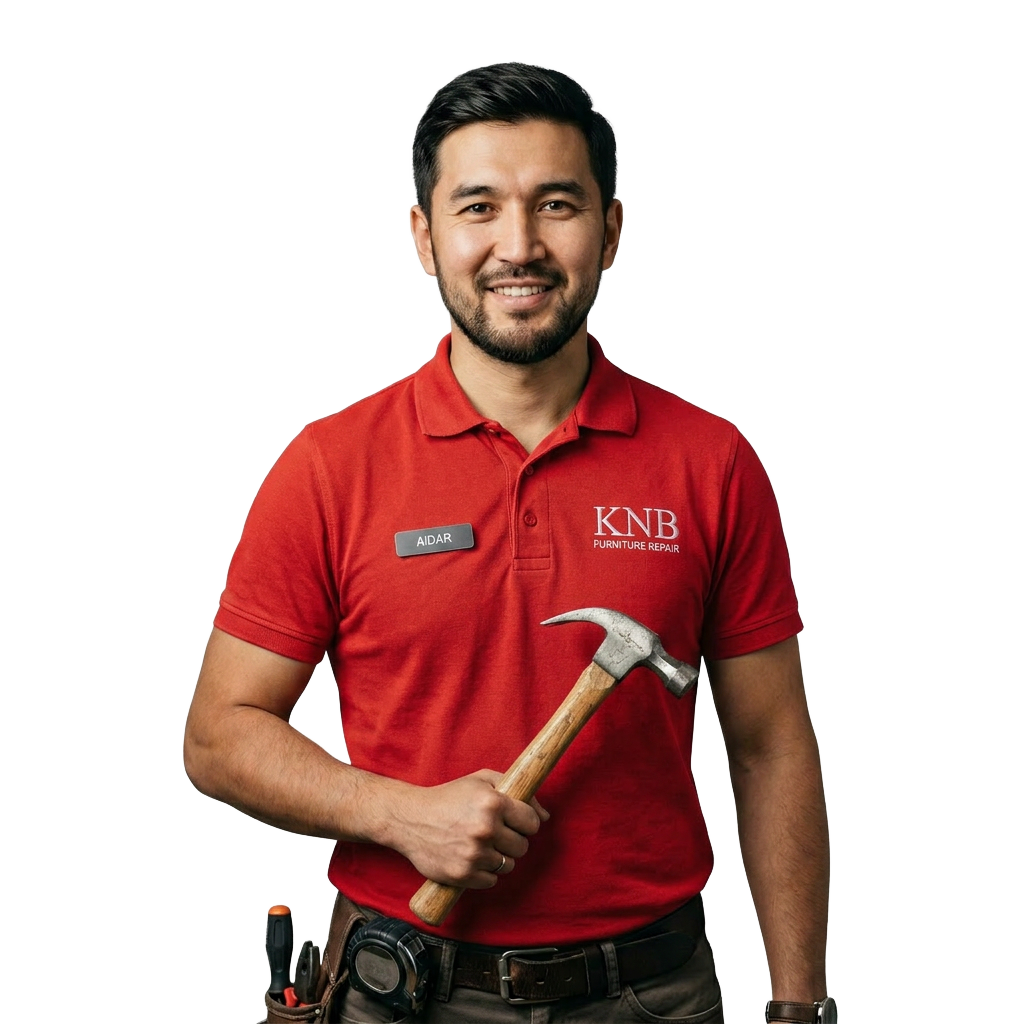
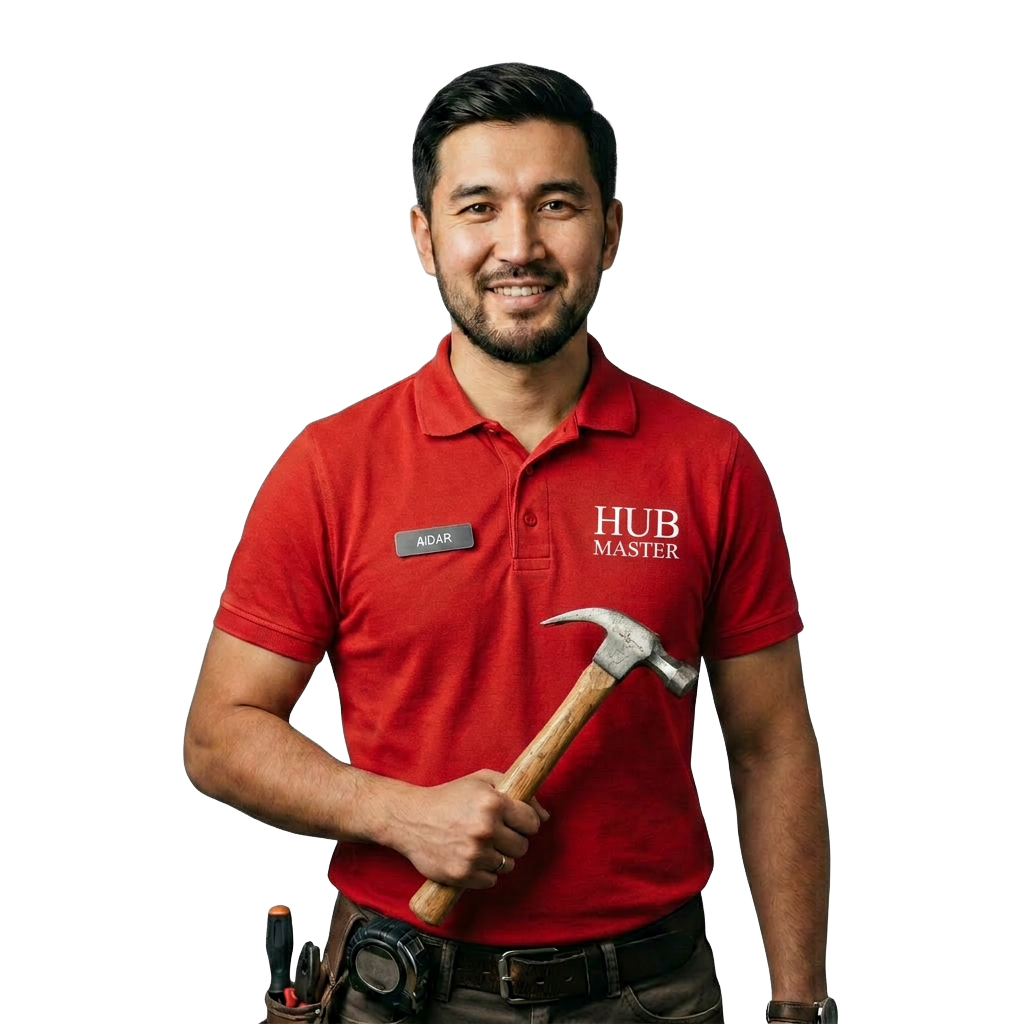
feat: improve showcase master design layout and add theme toggling support

Changed region(s): [[0.5625, 0.4688, 0.6875, 0.5625], [0.3125, 0.7188, 0.3438, 0.75], [0.2188, 0.5312, 0.25, 0.5625]]

diff --git a/index.html b/index.html
@@ -743,7 +743,7 @@
 
     .showcase-top {
       display: grid;
-      grid-template-columns: 1fr 450px;
+      grid-template-columns: 1fr 580px;
       gap: 40px;
       align-items: center;
       margin-bottom: 20px;
@@ -817,26 +817,31 @@
       background: var(--bg-card);
     }
 
-    /* Showcase Master / Right Side */
-    .showcase-master {
+    .showcase-text-col {
       position: relative;
-      height: 460px;
-      display: flex;
-      align-items: flex-start;
-      justify-content: center;
-      padding-top: 20px;
-      transform: translateY(40px);
-      /* Push only the master down to overlap the bottom card */
       z-index: 5;
     }
 
+    /* Showcase Master / Right Side */
+    .showcase-master {
+      position: relative;
+      height: 750px;
+      display: flex;
+      align-items: flex-end;
+      justify-content: center;
+      padding-top: 20px;
+      transform: translateY(30px);
+      z-index: 1;
+    }
+
     .showcase-master-placeholder {
-      width: 320px;
-      height: 440px;
+      width: 550px;
+      height: 750px;
       background: rgba(255, 255, 255, 0.02);
-      border: 1px dashed rgba(255, 255, 255, 0.1);
+      border: none;
       border-radius: 20px;
-      z-index: 2;
+      z-index: 0;
+      position: relative;
     }
 
     .showcase-glow {
@@ -3405,6 +3410,8 @@
       flex-direction: column;
       gap: 10px;
       flex-shrink: 0;
+      z-index: 5;
+      position: relative;
     }
 
     .col-left {
@@ -3422,8 +3429,19 @@
       justify-content: center;
       position: relative;
       flex-shrink: 0;
-      width: 180px;
-      height: 320px;
+      width: 320px;
+      height: 460px;
+      z-index: 1;
+    }
+
+    .hero-master-img {
+      height: 110%;
+      width: auto;
+      object-fit: contain;
+      z-index: 0;
+      position: relative;
+      margin-bottom: -10%;
+      filter: drop-shadow(0 12px 40px rgba(0, 0, 0, 0.45));
     }
 
     .master-glow-bg {
@@ -5141,7 +5159,7 @@
             <!-- CENTER: placeholder for future master image -->
             <div class="hero-v2-master">
               <div class="master-glow-bg"></div>
-              <img src="/public/hero_master.png" alt="Master" class="hero-master-img" style="height: 100%; width: auto; object-fit: contain; z-index: 2; position: relative;">
+              <img src="/public/hero_master.png" alt="Master" class="hero-master-img">
             </div>
 
             <!-- Right pills -->
@@ -5759,9 +5777,9 @@
       <div class="max-width-wrap">
 
         <!-- Top: Master on Left, Text on Right -->
-        <div class="showcase-top" style="grid-template-columns: 450px 1fr;">
+        <div class="showcase-top" style="grid-template-columns: 580px 1fr;">
 
-          <div class="showcase-master" style="transform: translateY(20px);">
+          <div class="showcase-master" style="transform: translateY(30px);">
             <div class="showcase-glow"></div>
             <div class="showcase-master-placeholder" style="background: url('/public/showcase_master.png') no-repeat center bottom; background-size: contain; border: none;"></div>
 
@@ -7835,6 +7853,20 @@
         document.getElementById('theme-sun').style.display = 'none';
         document.getElementById('theme-moon').style.display = 'block';
       }
+
+      const masterImg = document.querySelector('.hero-master-img');
+      if (masterImg) {
+        masterImg.src = currentTheme === 'dark'
+          ? '/public/hero_master.png'
+          : '/public/hero_master_day.png';
+      }
+
+      const showcasePls = document.querySelectorAll('.showcase-master-placeholder');
+      showcasePls.forEach(el => {
+        el.style.backgroundImage = currentTheme === 'dark'
+          ? "url('/public/showcase_master.png')"
+          : "url('/public/showcase_master_day.png')";
+      });
     }
 
     // TRANSLATIONS

diff --git a/hubmaster.html b/hubmaster.html
@@ -744,7 +744,7 @@
 
     .showcase-top {
       display: grid;
-      grid-template-columns: 1fr 450px;
+      grid-template-columns: 1fr 580px;
       gap: 40px;
       align-items: center;
       margin-bottom: 20px;
@@ -818,21 +818,26 @@
       background: var(--bg-card);
     }
 
+    .showcase-text-col {
+      position: relative;
+      z-index: 5;
+    }
+
     /* Showcase Master / Right Side */
     .showcase-master {
       position: relative;
-      height: 540px;
+      height: 750px;
       display: flex;
-      align-items: flex-start;
+      align-items: flex-end;
       justify-content: center;
       padding-top: 20px;
-      transform: translateY(40px);
-      z-index: 0;
+      transform: translateY(30px);
+      z-index: 1;
     }
 
     .showcase-master-placeholder {
-      width: 400px;
-      height: 540px;
+      width: 550px;
+      height: 750px;
       background: rgba(255, 255, 255, 0.02);
       border: none;
       border-radius: 20px;
@@ -3442,7 +3447,7 @@
       flex-shrink: 0;
       width: 320px;
       height: 460px;
-      z-index: 0;
+      z-index: 1;
     }
 
     .master-glow-bg {
@@ -5787,9 +5792,9 @@
       <div class="max-width-wrap">
 
         <!-- Top: Master on Left, Text on Right -->
-        <div class="showcase-top" style="grid-template-columns: 450px 1fr;">
+        <div class="showcase-top" style="grid-template-columns: 580px 1fr;">
 
-          <div class="showcase-master" style="transform: translateY(20px);">
+          <div class="showcase-master" style="transform: translateY(30px);">
             <div class="showcase-glow"></div>
             <div class="showcase-master-placeholder" style="background: var(--showcase-img, url('/public/showcase_master.png')) no-repeat center bottom; background-size: cover; width: 400px; height: 540px; border: none;"></div>
 
@@ -7871,6 +7876,20 @@
         document.getElementById('theme-sun').style.display = 'none';
         document.getElementById('theme-moon').style.display = 'block';
       }
+
+      const masterImg = document.querySelector('.hero-master-img');
+      if (masterImg) {
+        masterImg.src = currentTheme === 'dark'
+          ? '/public/hero_master.png'
+          : '/public/hero_master_day.png';
+      }
+
+      const showcasePls = document.querySelectorAll('.showcase-master-placeholder');
+      showcasePls.forEach(el => {
+        el.style.backgroundImage = currentTheme === 'dark'
+          ? "url('/public/showcase_master.png')"
+          : "url('/public/showcase_master_day.png')";
+      });
     }
 
     // TRANSLATIONS